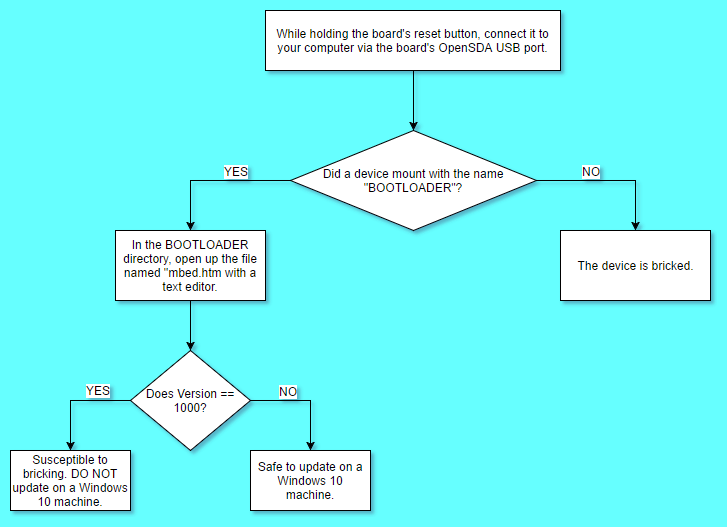
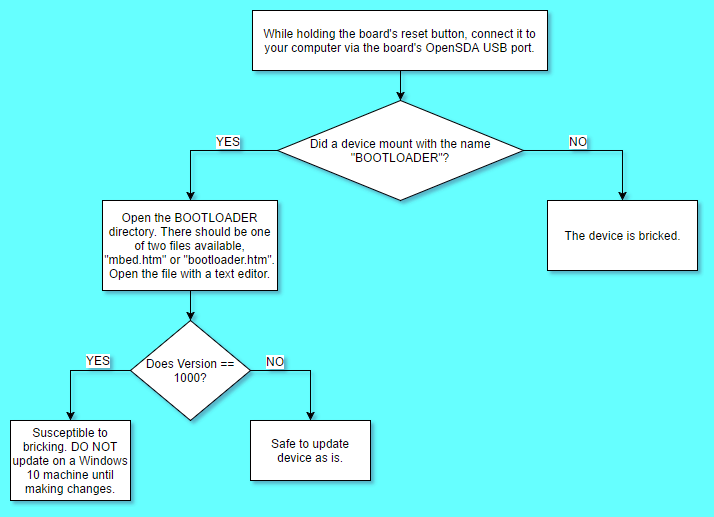
Updated guide with latest recovery steps

Changed region(s): [[0.0, 0.0, 0.986, 0.9903]]

diff --git a/unbricking_guide.md b/unbricking_guide.md
@@ -1,16 +1,12 @@
 # Unbricking and Updating mbed Devices
-Older versions of DAPLink can potentially brick your NXP/Freescale microcontroller if you attempt to update its firmware on a Windows 10 machine. This bricking is a result of the device's bootloader getting overwritten improperly during the flashing process. If you believe your device is bricked, or worried that it may become bricked, this guide will help you in recovering and updating your board properly. Begin by following the flowchart below to determine what needs to be done to recover and safely update the DAPLink firmware on your board.
+Older versions of DAPLink can potentially brick your NXP/Freescale microcontroller if you attempt to update its firmware on a Windows 10 machine. This bricking is a result of the device's bootloader getting overwritten improperly during the flashing process. If you believe your device is bricked, or worried that it may become bricked, this guide will help you in recovering and updating your board properly. Begin by following the flowchart below to determine what needs to be done to recover and/or safely update the DAPLink firmware on your board.
 
 ![](images/flowchart.png "Flowchart used to determine status of bricked board")
 
-If the flowchart has determined that your board is _bricked_, then follow the steps in the section `Unbricking bootloader`. If the flowchart has determined that your board is _susceptible to bricking_, then you have two options:
-1. If you have a Windows 7 machine available to you, then the easiest solution is to follow the steps outlined in the section `Updating with Windows 7`.
-2. Else, you can also follow the steps outlined in the section `Unbricking bootloader`.
-
-Finally, if the flowchart has determined that your board is _safe to update on a Windows 10 machine_, then this guide does not apply to you, and update your board normally following the directions outlined [here](http://www.nxp.com/products/software-and-tools/run-time-software/kinetis-software-and-tools/ides-for-kinetis-mcus/opensda-serial-and-debug-adapter:OPENSDA?tid=vanOpenSDA#overviewExpand).
+If the flowchart has determined that your board is _bricked_, then follow the steps in the section `Unbricking bootloader`. If the flowchart has determined that your board is _susceptible to bricking_, then follow the steps outlined in the section `Safely update with Windows 10`. Finally, if the flowchart has determined that your board is _safe to update as is_, then this guide does not apply to you, and update your board normally following the directions outlined [here](http://www.nxp.com/products/software-and-tools/run-time-software/kinetis-software-and-tools/ides-for-kinetis-mcus/opensda-serial-and-debug-adapter:OPENSDA?tid=vanOpenSDA#overviewExpand).
 
 ## Unbricking bootloader
-Follow the steps in this section if the flowchart at the beginning of the document determined that your board's bootloader has been bricked, or if your device is susceptible to bricking and you do not have access to a Windows 7 machine.
+Follow the steps in this section if the flowchart at the beginning of the document determined that your board's bootloader has been bricked.
 
 ### Required items
 * [pyOCD](https://github.com/mbedmicro/pyOCD).
@@ -69,20 +65,29 @@ INFO:root:Programmed 131072 bytes (128 pages) at 25.32 kB/s
 ### Step 4: Verify
 Now, unplug and replug the board into your computer normally (without holding down the reset button). The device mounts normally, and the update is complete.
 
-## Update with Windows 7
+## Safely update with Windows 10
 Follow the steps in this section if the flowchart at the beginning of the document determined that your board is susceptible to bricking.
 
 ### Required items
-* Windows 7 machine
+* Windows 10 machine
 * [DapLink firmware](TODO: NEED TO UPDATE ONCE NEW DAPLINK IS RELEASED).
 
-### Step 1: Enter device into bootloader mode
-Hold down the reset button on your board, and while holding down the button, plug it into a Windows 7 machine. The board should mount as a `BOOTLOADER`.
+### Step 1: Disable storage services
+Right click the _start button_ in Windows 10, and then left click _run_. From the run prompt, type in ```services.msc```, and then click the _OK_ button.
 
-![](images/bootloader.png "Image of what the bootloader looks like on Windows 7")
+![](images/run.png "Open up the services application.")
 
-### Step 2: Drag working binary onto your device
-Drag and drop your binary onto the device while it is in bootloader mode.
+Once the Services application opens, double click the item from the list named _Storage Service_.  Once inside, click the button named _Stop_.
+
+![](images/services.png "Look for the setting named "Storage Service".")
+
+![](images/stop.png "Storage Service settings with the Stop button highlighted.")
+
+### Step 2: Update firmware
+While holding the board's reset button, connect it to your computer via the board's OpenSDA UDB port. A device will mount with the name _BOOTLOADER_. Open up the _BOOTLOADER_ directory, and then drag and drop the firmware that is linked in the `Required items` section of this tutorial. The board will begin the updating process.
 
 ### Step 3: Verify
-Now, unplug and replug the board into your computer normally (without holding down the reset button). The device mounts normally, and the update is complete.
+Allow the update a few seconds to complete, and then unplug and replug the board into your computer normally (without holding down the reset button). The device mounts normally, and the update is complete.
+
+### Step 4: Re-enable storage services
+Turn storage services back on by following the same steps listed in step 1, but this time click the button name _Start_ instead of _Stop_.
